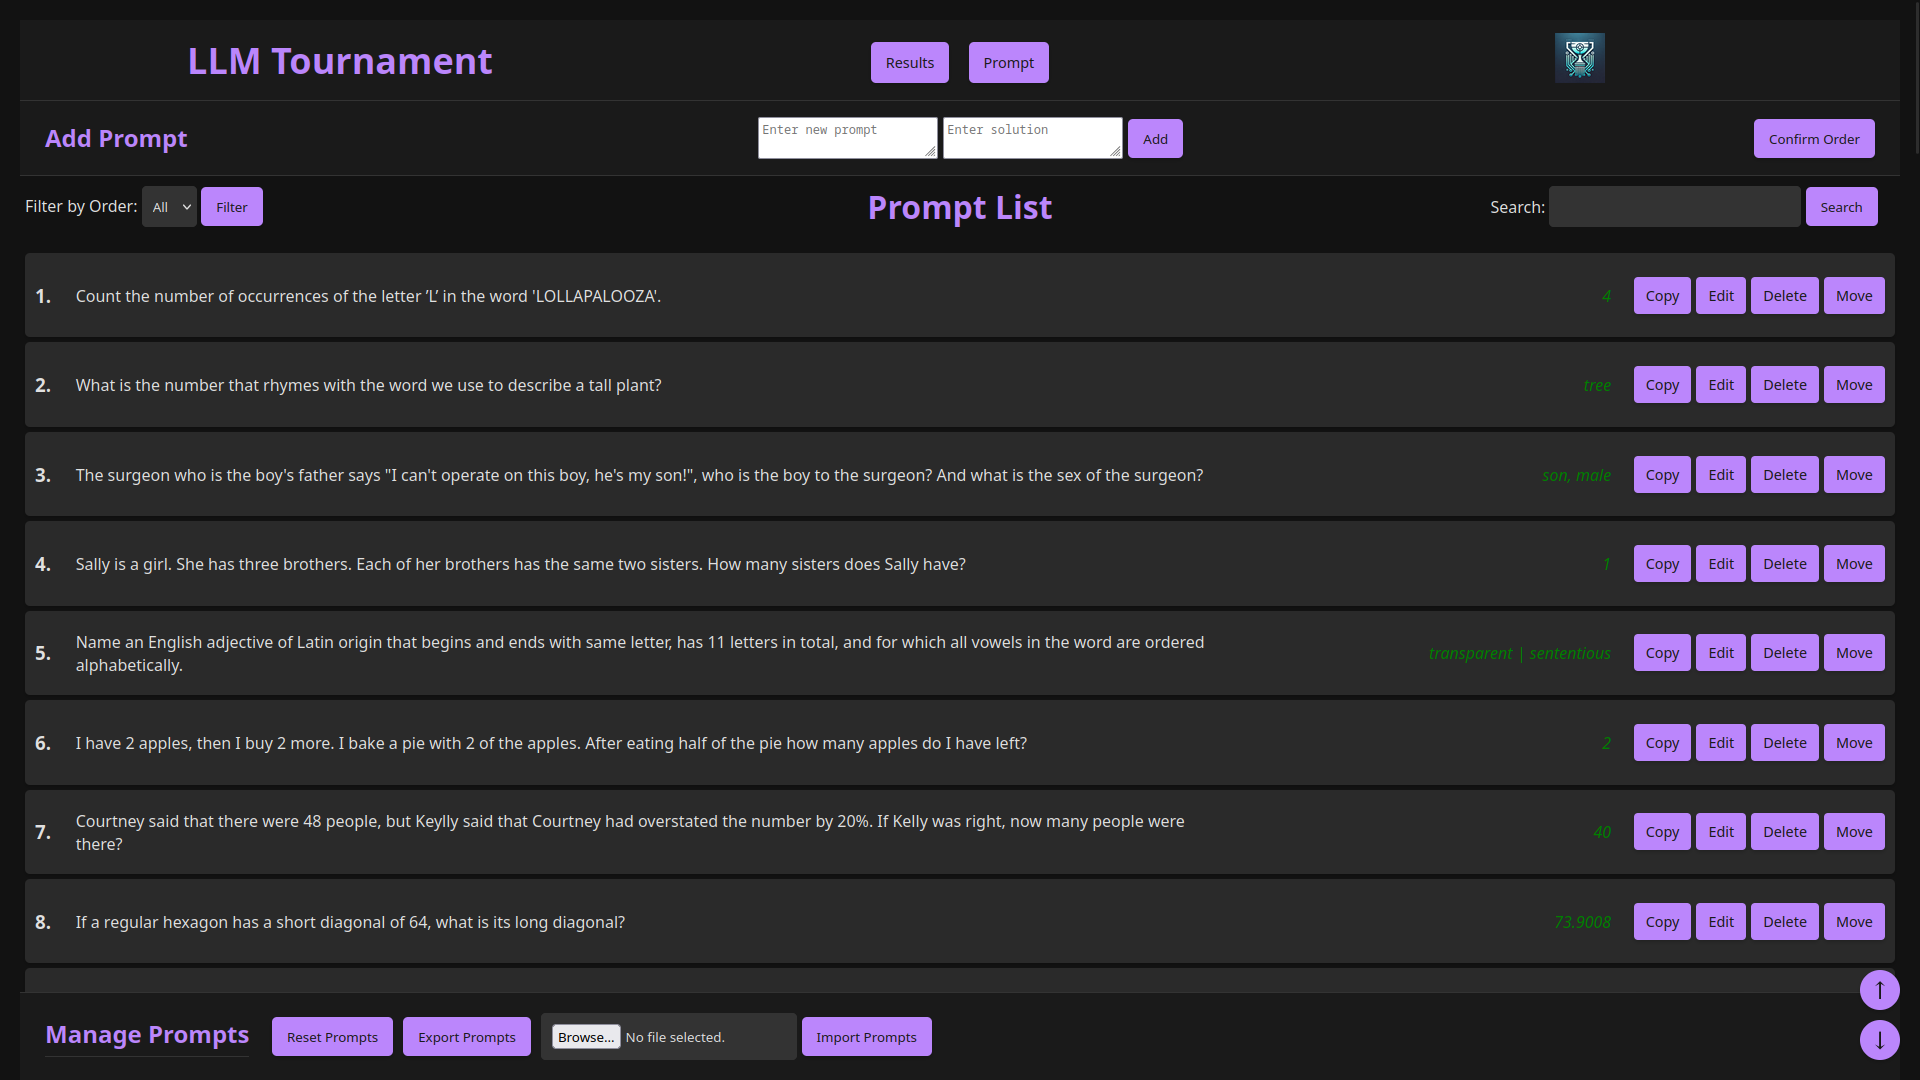
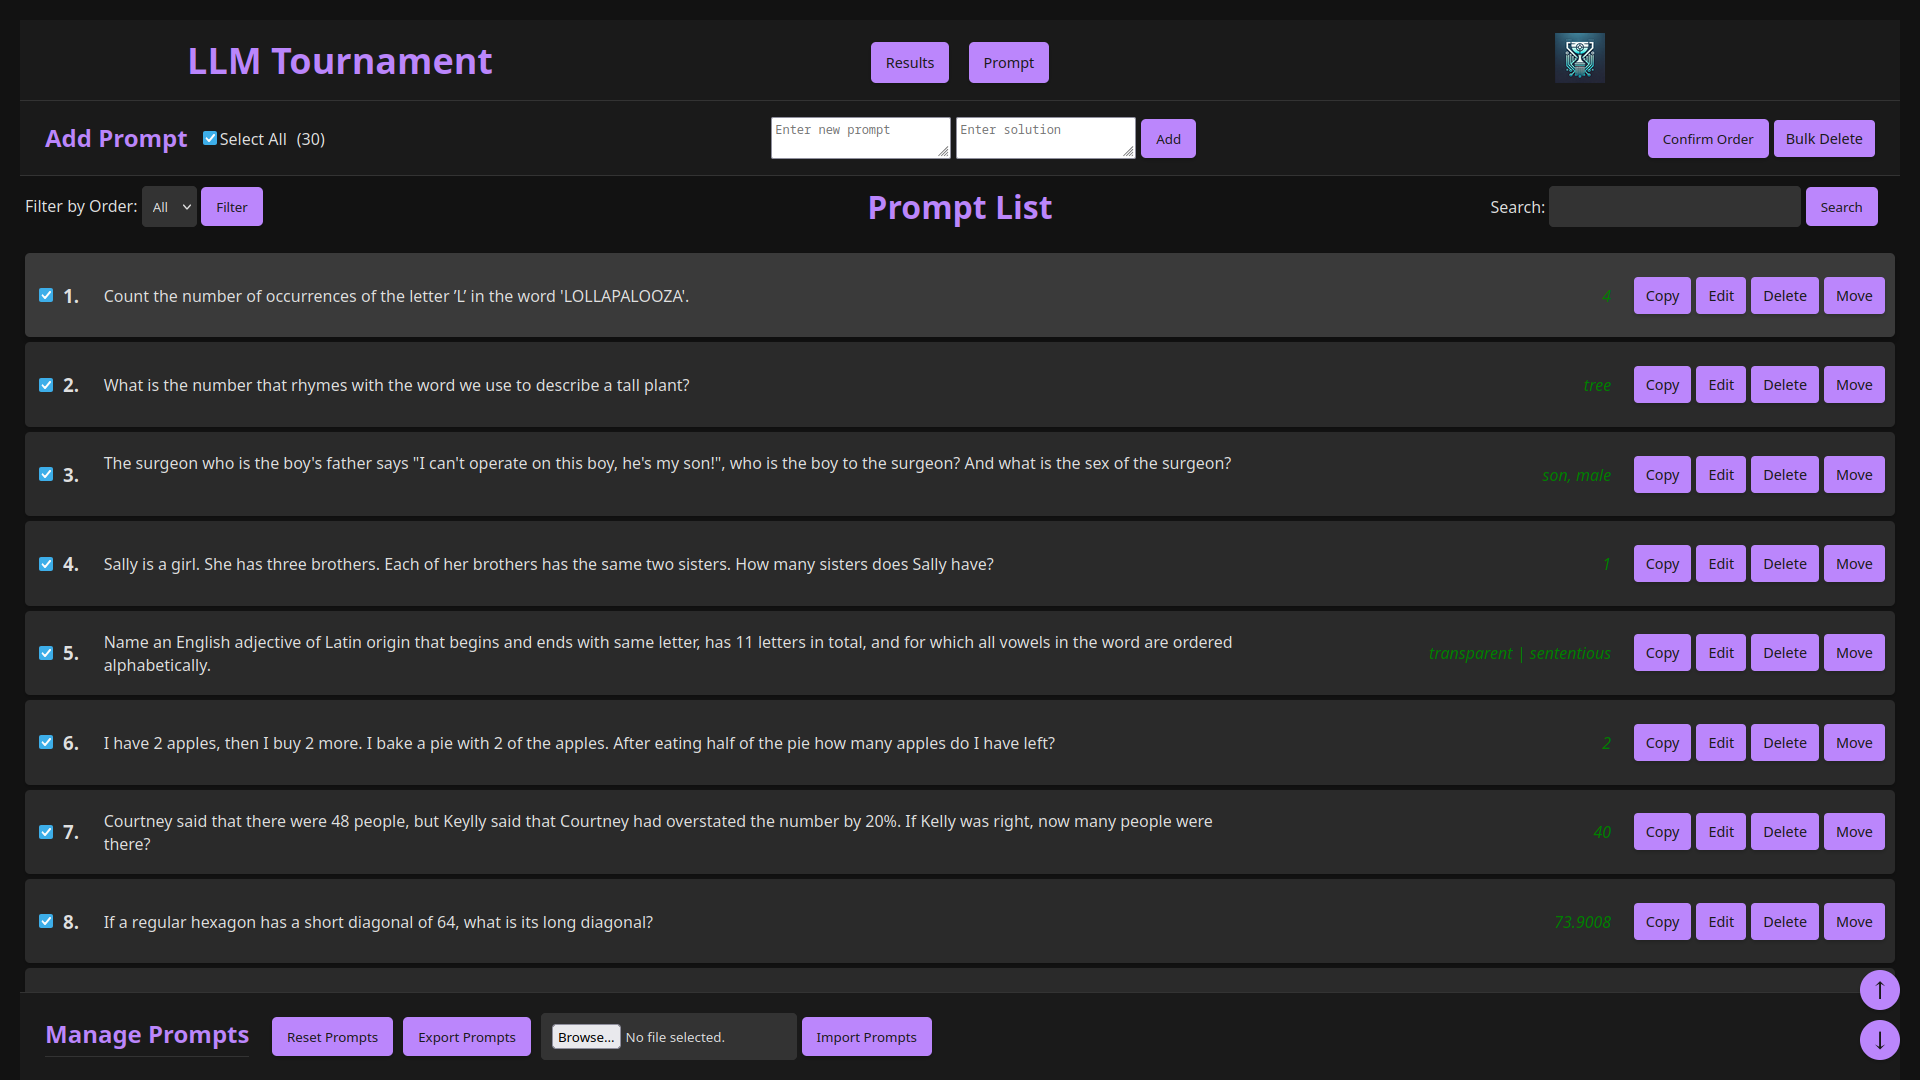
chore

diff --git a/README.md b/README.md
@@ -42,6 +42,8 @@ This application simplifies the evaluation of Large Language Models (LLMs) with 
 
 ![result-page](./assets/ui-result-page.png)
 
+![prompt-edit-page](./assets/ui-prompt-edit.png)
+
 ## Run
 
 ```bash
@@ -73,8 +75,6 @@ Anyone can just submit a PR and we'll discuss there.
 - Handbook composition prompt.
 - Make another prompt suite to test SD 3.5 vs Flux 1 Dev.
 - Make another prompt suite for vision LLMs.
-
-### Bulk Delete Prompts
 
 ### Prompt Suites
 
